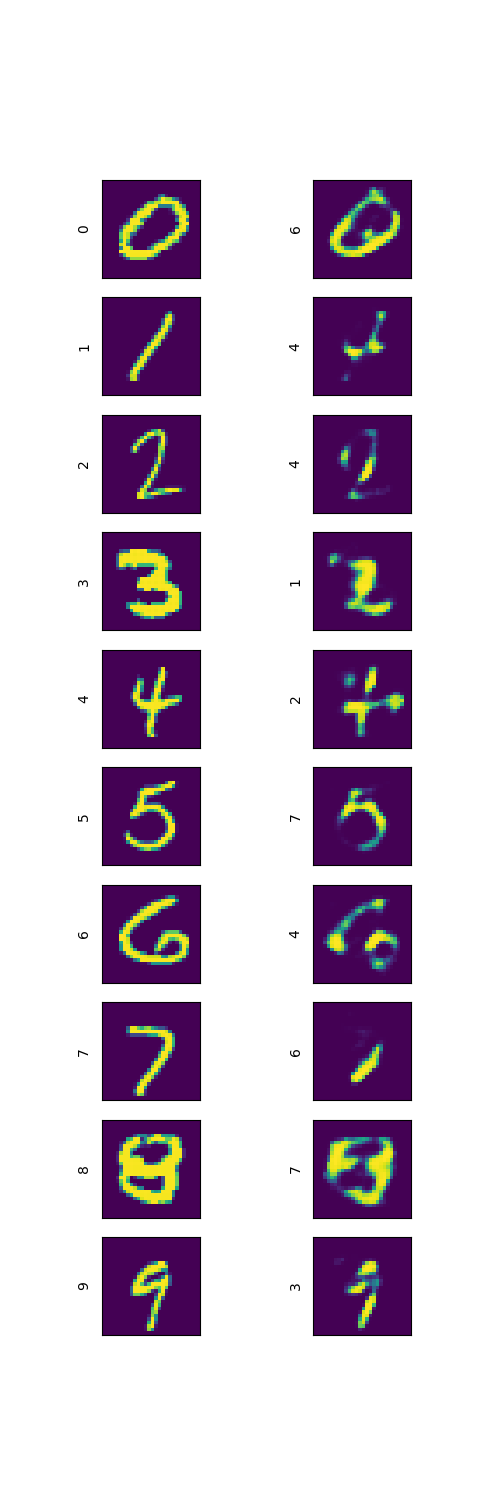
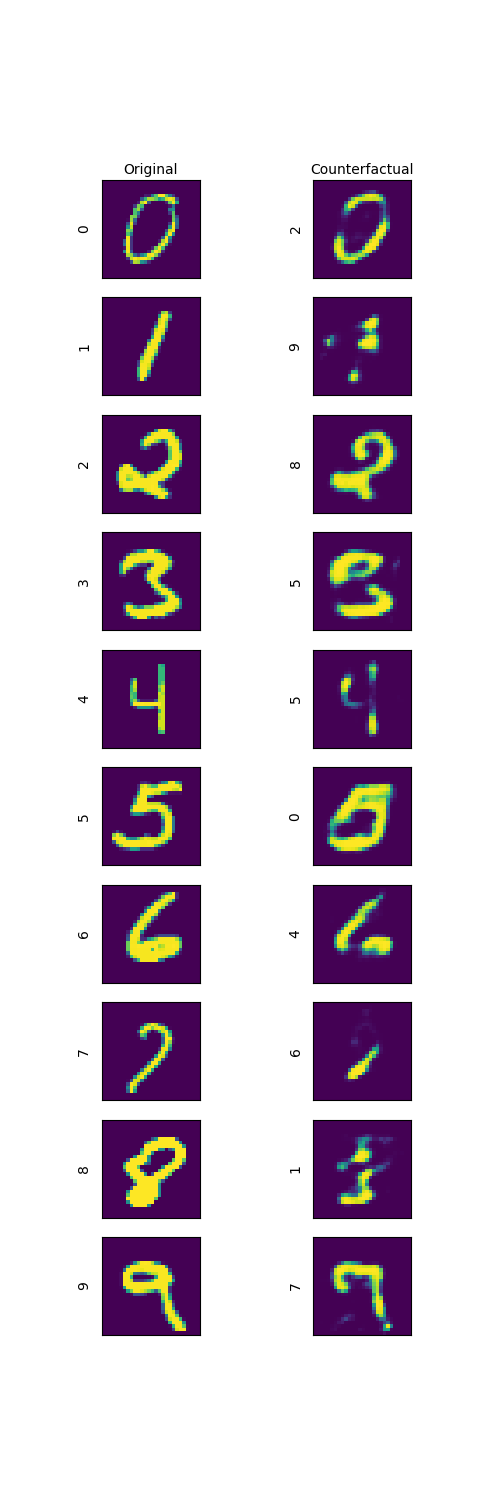
update

diff --git a/construct_explainations_ae.py b/construct_explainations_ae.py
@@ -77,7 +77,7 @@ if __name__ == '__main__':
 		first_image_y = first_image_xy[0]
 		target_y = int(np.random.choice([j for j in range(10) if j!=i]))
 		cfxai = CFXai(first_image_x, target_y=target_y, lr=0.01)
-		img, og_img, loss, d = cfxai.generate_cf(300)
+		img, og_img, loss, d = cfxai.generate_cf(500)
 		axes[i][0].imshow(og_img)
 		axes[i][0].set_ylabel(str(i))
 		axes[i][1].imshow(img)
@@ -86,4 +86,9 @@ if __name__ == '__main__':
 		axes[i][1].set_xticks([])
 		axes[i][0].set_yticks([])
 		axes[i][1].set_yticks([])
+		if i==0:
+			axes[i][0].set_xlabel('Original')    
+			axes[i][0].xaxis.set_label_position('top') 
+			axes[i][1].set_xlabel('Counterfactual')
+			axes[i][1].xaxis.set_label_position('top')
 	plt.savefig("./images/AE_Constructions.png")
